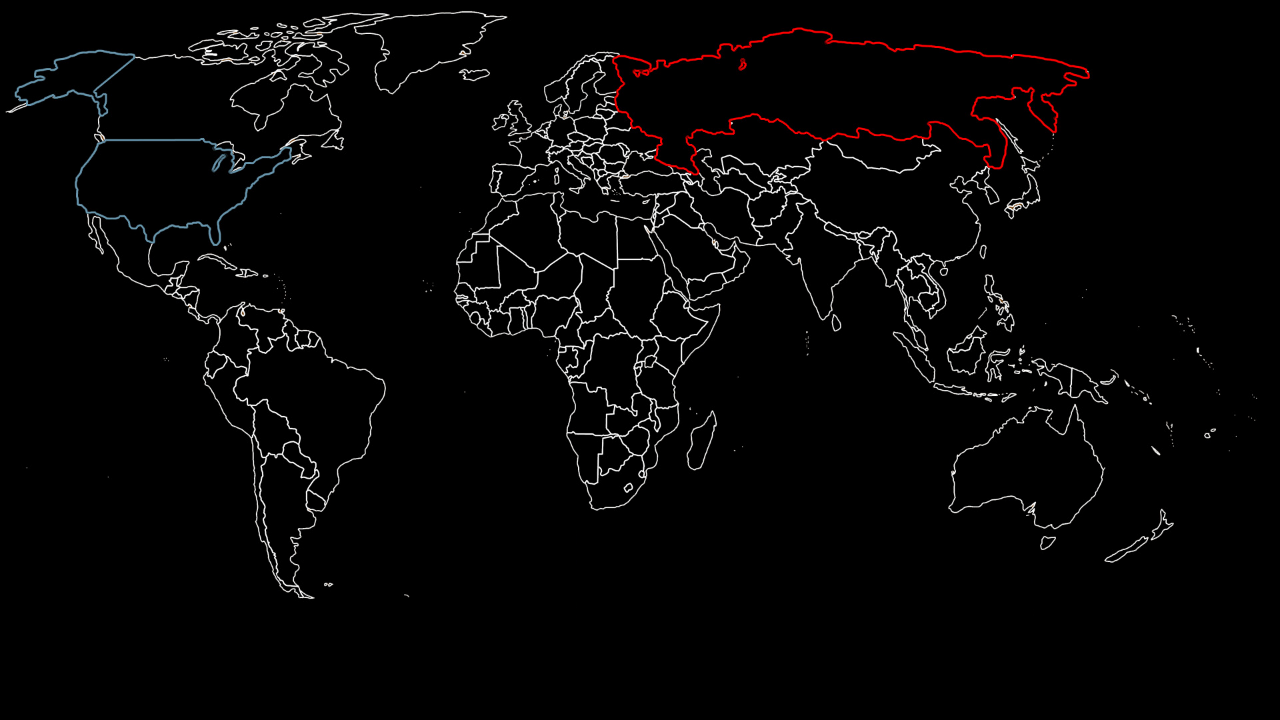
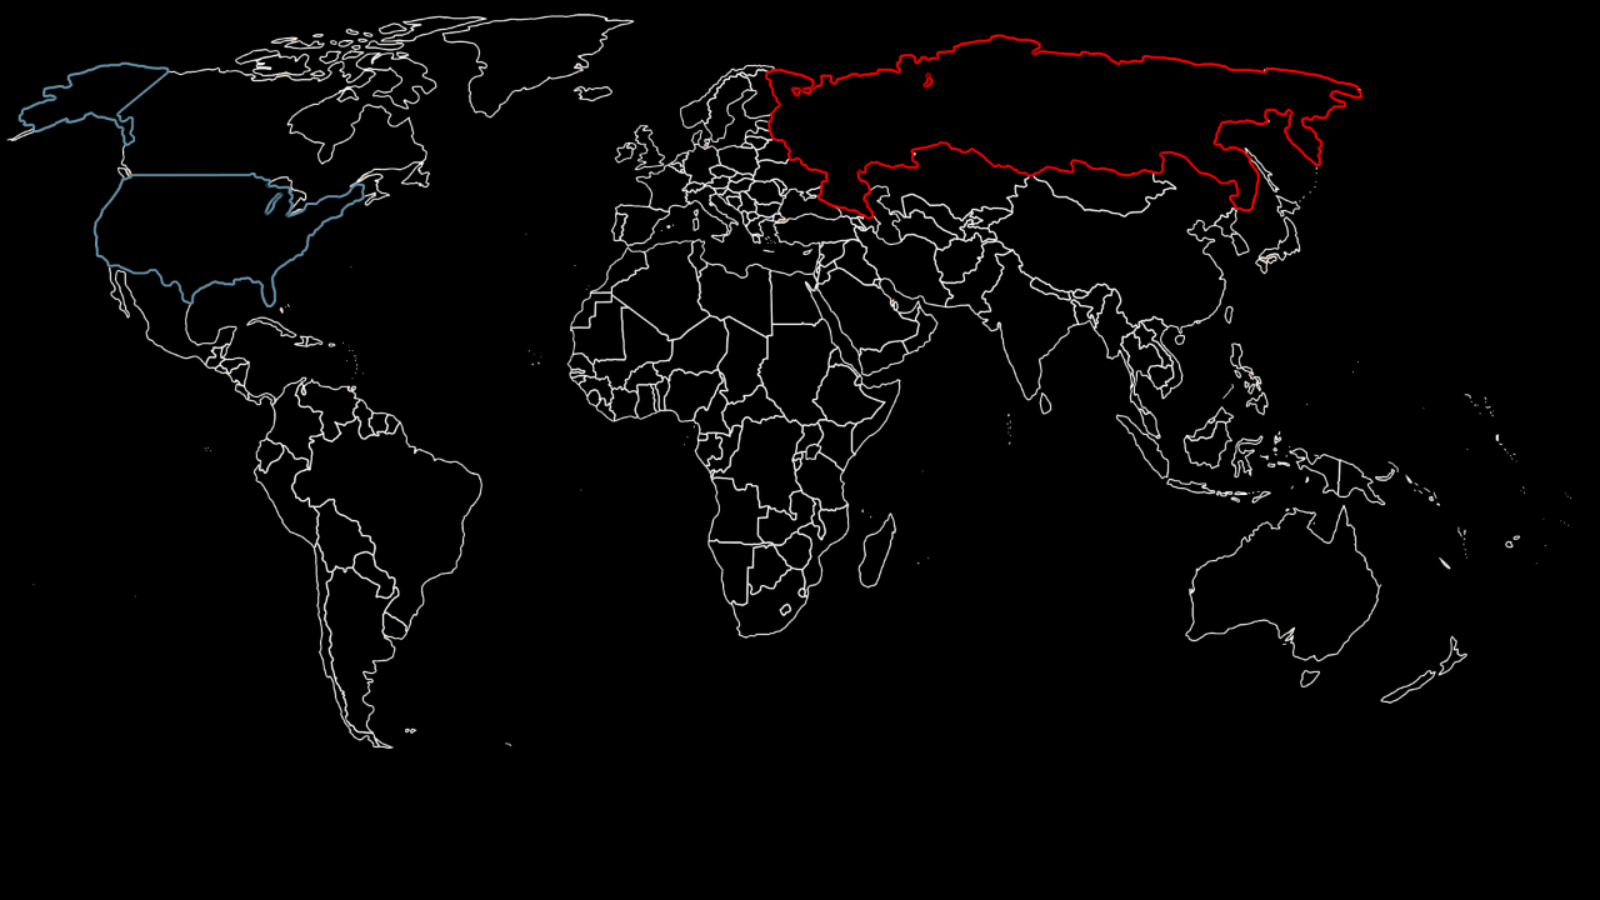
now it draw all lines as it should
just need to kake them disappear

diff --git a/WarGames/Form1.cs b/WarGames/Form1.cs
@@ -14,6 +14,7 @@ using System.Runtime.InteropServices;
 using System.Reflection;
 using System.Windows.Input;
 using System.Media;
+using System.Drawing.Imaging;
 
 namespace WarGames
 {
@@ -121,9 +122,10 @@ namespace WarGames
             curveEnd = defendPoint;
             CreateCurve(curveStart, curveEnd);
 
+            //changed size on the map as this from image i9s calling the actuall image
             using (var g = Graphics.FromImage(Background.BackgroundImage))
             {
-                Pen pen = new Pen(Color.IndianRed, 2);
+                Pen pen = new Pen(Color.Red, 2);
                 g.DrawCurve(pen, curvePointList.ToArray());
                 Background.Refresh();
             }
